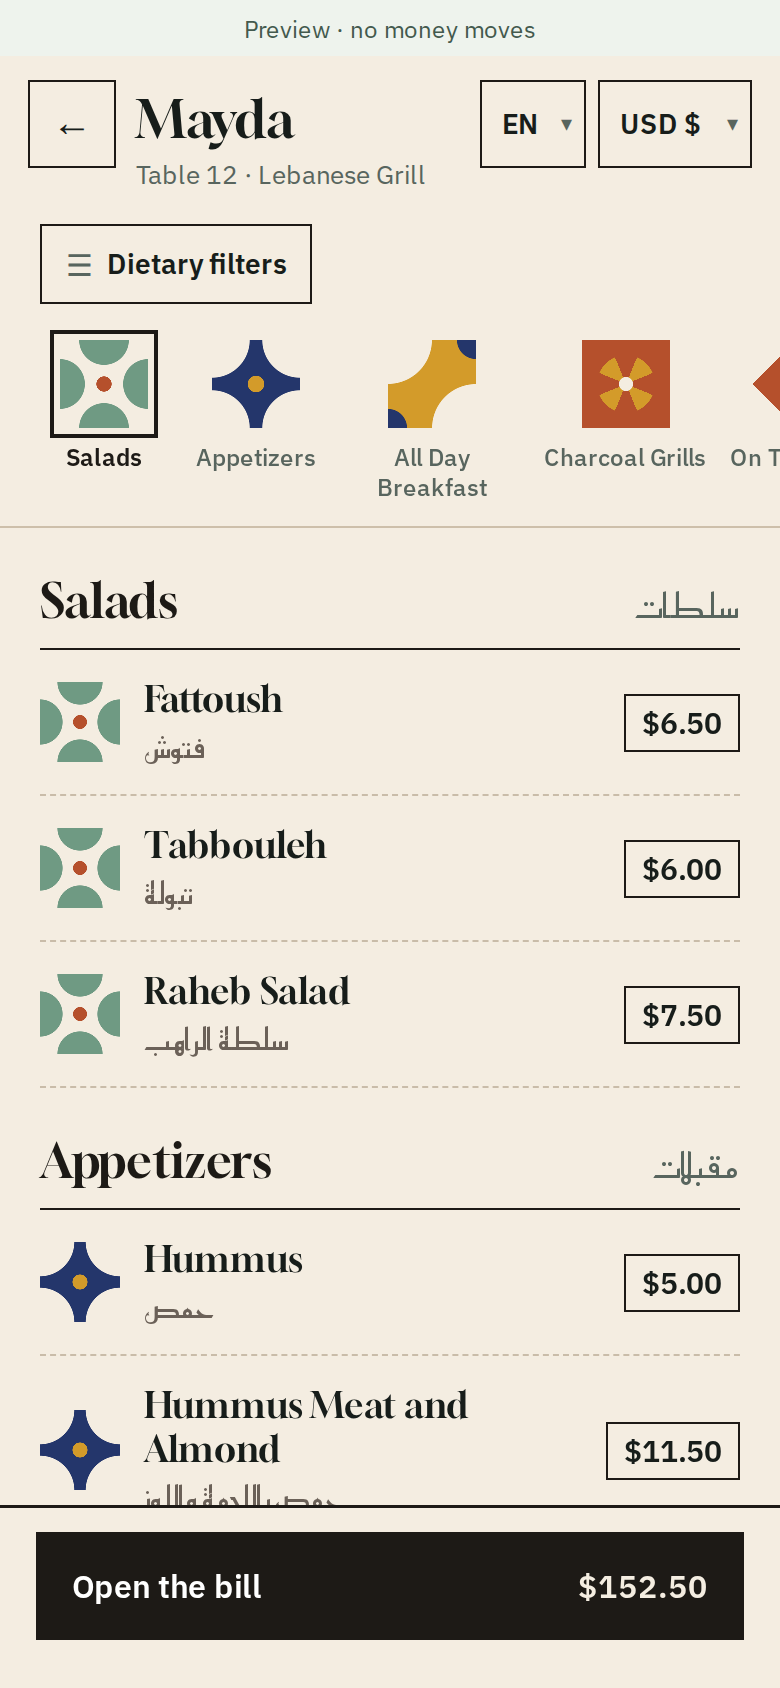
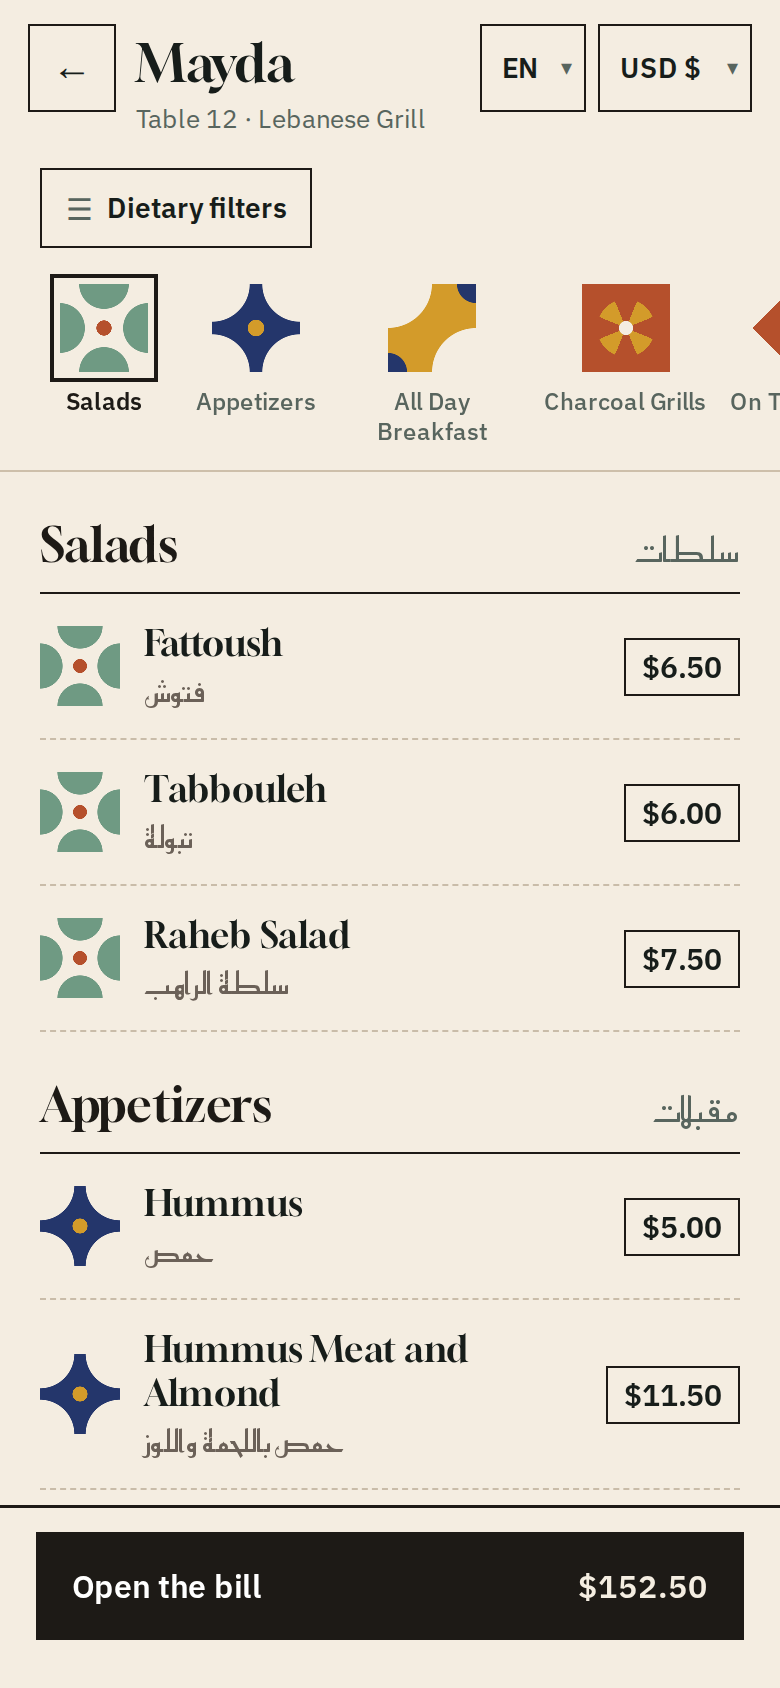
Guest menu: allergens only when there is something to say; no preview strip
- A dish's allergen line shows only for a warning (Contains ...) or when its
  ingredients are not confirmed; a dish with none says nothing. Both lines already
  tell the guest to ask their server, so the per-dish "Always confirm allergies with
  staff." goes; the dietary filters keep it. The unused "No common allergens"
  strings (EN, FR, AR) are removed.
- The "Preview · no money moves" strip at the top of every screen is gone, with the
  28 px it pushed every view down and its three translations.
- The website's guest screenshots and the share image are retaken without the strip.

Claude-Session: https://claude.ai/code/session_017mwzzhaL33iJSnVf4TVPSv

diff --git a/guest.html b/guest.html
@@ -538,8 +538,6 @@
   body{padding:0;background:#EEF1EC}
   .stage,.switcher,.note-out{display:none}
   .phone{width:480px;max-width:100%;height:100dvh;min-height:0;border:0;border-radius:0;box-shadow:0 0 60px #173D2510}
-  .screen::before{content:attr(data-preview);position:absolute;inset:0 0 auto;height:28px;display:flex;align-items:center;justify-content:center;background:#EEF3ED;color:#43594D;font-size:12px;z-index:60}
-  .view{top:28px}
   .scroll{min-height:0;overscroll-behavior:contain;scrollbar-width:thin}
   .back{width:44px;height:44px;font-size:20px;top:12px}
   .cta{font-size:16px;min-height:48px}
@@ -583,7 +581,7 @@
   .pm{min-height:72px}.pm .pn{font-size:16px}.pm .pd{font-size:13px;line-height:1.4;margin-top:3px}
   .chg-q,.cashnote,.chg-out{font-size:14px;line-height:1.5}.chip{min-height:44px;font-size:15px}
   .sheet .ss,.sim-note,.wh-s,.hint,.inc{font-size:14px}.inc{font-size:16px;min-height:44px}
-  .receipt-mode .screen::before{display:none}.receipt-mode .view{top:0}
+  .receipt-mode .view{top:0}
   .receipt-mode .mailin{border-color:#789C88;background:#204F3E;padding-inline:10px}
   .receipt-mode .mailin::placeholder{color:#CEE0D4;opacity:1}
   .receipt-mode .mailbtn{width:96px;padding:6px 10px;min-width:96px;font-size:14px;line-height:1.2;font-weight:600;border-color:#789C88}
@@ -593,7 +591,7 @@
   @media(max-width:380px){.m-head{padding-inline-end:20px;padding-top:66px}.sels{inset-inline-end:16px}.mi{gap:8px;padding-inline:16px}.menu-photo{width:48px;height:48px}.mi .item-end{gap:5px}.seg button{font-size:13px}}
   @container receipt (max-height:600px){.receipt-mode .consents{gap:6px}}
 
-  /* Offline banner: over the preview band at the top of the screen; the views move down
+  /* Offline banner: at the top of the screen; the views move down
      under it while it shows. The sync status chip hides meanwhile: one message, not two. */
   .net-banner{position:absolute;inset:0 0 auto;z-index:61;min-height:28px;padding:6px 16px;background:var(--amber-bg);color:#5C4611;border-bottom:1px solid var(--amber-line);font-size:12.5px;line-height:1.4;text-align:center}
   .net-banner[hidden]{display:none}
@@ -735,7 +733,7 @@
 <!-- the Aalayna wordmark (brand/svg/3layna/line.svg), drawn once and used in every "powered by" -->
 <svg width="0" height="0" style="position:absolute" aria-hidden="true" focusable="false"><symbol id="aal-logo" viewBox="0 0 350 50"><path fill="currentColor" d="M60 0L70 0L70 40.8L110 40.8L110 50L60 50ZM120 0L170 0L170 50L160 50L160 29.6L130 29.6L130 50L120 50ZM130 9.2L130 20.4L160 20.4L160 9.2ZM180 0L190 0L190 20.4L220 20.4L220 0L230 0L230 29.6L210 29.6L210 50L200 50L200 29.6L180 29.6ZM240 0L250 0L250 50L240 50ZM280 0L290 0L290 50L280 50ZM240 0L252.5 0L290 50L277.5 50ZM300 0L350 0L350 50L340 50L340 29.6L310 29.6L310 50L300 50ZM310 9.2L310 20.4L340 20.4L340 9.2Z"/><path style="fill:var(--logo-red,#C9414B)" d="M0 0L50 0L50 50L0 50L0 40.8L40 40.8L40 29.6L20 29.6L20 20.4L40 20.4L40 9.2L0 9.2Z"/></symbol></svg>
 <!-- #app is the guest app: its dir follows the language (rtl in Arabic), so every view and sheet mirrors -->
-<div class="phone" id="app" dir="ltr"><div class="screen" id="screen" data-preview="Preview · no money moves">
+<div class="phone" id="app" dir="ltr"><div class="screen" id="screen">
   <div class="net-banner" id="net-banner" role="status" aria-live="polite" hidden></div>
   <!-- ================= 1. LANDING ================= -->
   <div class="view on" id="v-land">
@@ -975,7 +973,6 @@
       <div class="i-meta" id="i-meta"></div>
       <div class="soldout" id="i-out" style="display:none">Sold out</div>
       <div class="alrt" id="i-alrt"></div>
-      <div class="disc" id="i-disc">Always confirm allergies with staff.</div>
       <div class="adds" id="i-adds"></div>
       <div class="i-price"><span class="ipl" data-i18n="priceAsSel">Price as selected</span>
         <span class="ipv" id="i-tot">$0.00</span></div>
@@ -1284,7 +1281,7 @@ var LANGS = ['en', 'fr', 'ar'];
 /* i18n:start */
 var STR = {
   en: {
-    preview: 'Preview · no money moves', poweredBy: 'powered by', back: 'Back', langLabel: 'Language', ccyLabel: 'Currency',
+    poweredBy: 'powered by', back: 'Back', langLabel: 'Language', ccyLabel: 'Currency',
     ccyUsd: 'USD $', ccyLbp: 'LBP LL', table: 'Table', sampleBill: 'sample bill',
     greet: 'Ahla w sahla', landNote: 'Explore the menu. When you’re ready, split the bill your way and pay from your table.',
     seeMenu: 'See the menu', openBill: 'Open the bill', crestFallback: 'YOUR MENU, LIVE',
@@ -1299,7 +1296,6 @@ var STR = {
     catBrk: 'Breakfast', catMez: 'Mezze & Grill', catSwt: 'Sweets', catDrk: 'Drinks',
     priceAsSel: 'Price as selected', close: 'Close', free: 'free',
     containsHtml: '<b>Contains {list}.</b> If you have a serious allergy, tell your server too.',
-    noAllergensHtml: '<b>No common allergens</b> as selected. If you have a serious allergy, tell your server too.',
     listSep: ', ',
     al_gluten: 'gluten', al_sesame: 'sesame', al_nuts: 'nuts', al_dairy: 'dairy', al_egg: 'egg', al_eggs: 'eggs',
     al_fish: 'fish', al_soy: 'soy', al_shellfish: 'shellfish', al_peanuts: 'peanuts', al_mustard: 'mustard', al_celery: 'celery',
@@ -1371,7 +1367,7 @@ var STR = {
     offline: 'No connection. Your bill is as of {time}; we will send your payment when you are back online.'
   },
   fr: {
-    preview: 'Aperçu · aucun argent ne circule', poweredBy: 'propulsé par', back: 'Retour', langLabel: 'Langue', ccyLabel: 'Devise',
+    poweredBy: 'propulsé par', back: 'Retour', langLabel: 'Langue', ccyLabel: 'Devise',
     ccyUsd: 'USD $', ccyLbp: 'LBP LL', table: 'Table', sampleBill: 'addition d’exemple',
     greet: 'Bienvenue', landNote: 'Découvrez le menu. Quand vous êtes prêts, partagez l’addition comme vous voulez et payez depuis votre table.',
     seeMenu: 'Voir le menu', openBill: 'Voir l’addition', crestFallback: 'VOTRE MENU, EN DIRECT',
@@ -1386,7 +1382,6 @@ var STR = {
     catBrk: 'Petit-déjeuner', catMez: 'Mezzés et grillades', catSwt: 'Douceurs', catDrk: 'Boissons',
     priceAsSel: 'Prix selon la sélection', close: 'Fermer', free: 'offert',
     containsHtml: '<b>Contient : {list}.</b> En cas d’allergie grave, prévenez aussi votre serveur.',
-    noAllergensHtml: '<b>Aucun allergène courant</b> dans cette sélection. En cas d’allergie grave, prévenez aussi votre serveur.',
     listSep: ', ',
     al_gluten: 'gluten', al_sesame: 'sésame', al_nuts: 'fruits à coque', al_dairy: 'produits laitiers', al_egg: 'œuf', al_eggs: 'œufs',
     al_fish: 'poisson', al_soy: 'soja', al_shellfish: 'crustacés', al_peanuts: 'arachides', al_mustard: 'moutarde', al_celery: 'céleri',
@@ -1458,7 +1453,7 @@ var STR = {
     offline: 'Pas de connexion. Votre addition date de {time} ; nous enverrons votre paiement dès votre retour en ligne.'
   },
   ar: {
-    preview: 'معاينة · لا تُحوَّل أي أموال', poweredBy: 'مدعوم من', back: 'رجوع', langLabel: 'اللغة', ccyLabel: 'العملة',
+    poweredBy: 'مدعوم من', back: 'رجوع', langLabel: 'اللغة', ccyLabel: 'العملة',
     ccyUsd: 'دولار $', ccyLbp: 'ليرة ل.ل.', table: 'طاولة', sampleBill: 'فاتورة تجريبية',
     greet: 'أهلاً وسهلاً', landNote: 'تصفّح القائمة. وعندما تكون جاهزاً، قسّم الفاتورة على طريقتك وادفع من طاولتك.',
     seeMenu: 'عرض القائمة', openBill: 'افتح الفاتورة', crestFallback: 'قائمتك، مباشرة',
@@ -1473,7 +1468,6 @@ var STR = {
     catBrk: 'ترويقة', catMez: 'مازة ومشاوي', catSwt: 'حلويات', catDrk: 'مشروبات',
     priceAsSel: 'السعر حسب الاختيار', close: 'إغلاق', free: 'مجاناً',
     containsHtml: '<b>يحتوي على: {list}.</b> إذا كانت لديك حساسية شديدة، أخبر النادل أيضاً.',
-    noAllergensHtml: '<b>لا مسبّبات حساسية شائعة</b> حسب الاختيار. إذا كانت لديك حساسية شديدة، أخبر النادل أيضاً.',
     listSep: '، ',
     al_gluten: 'الغلوتين', al_sesame: 'السمسم', al_nuts: 'المكسرات', al_dairy: 'الألبان', al_egg: 'البيض', al_eggs: 'البيض',
     al_fish: 'السمك', al_soy: 'الصويا', al_shellfish: 'القشريات', al_peanuts: 'الفول السوداني', al_mustard: 'الخردل', al_celery: 'الكرفس',
@@ -1629,7 +1623,6 @@ function applyLang(){
   var app = $('app');
   if (app){ app.setAttribute('dir', LANG === 'ar' ? 'rtl' : 'ltr'); app.setAttribute('lang', LANG); }
   if (document.documentElement) document.documentElement.lang = LANG;
-  var scr = $('screen'); if (scr) scr.setAttribute('data-preview', t('preview'));
   paintStatic();
   // the Arabic "thank you" under the title is a flourish; in Arabic the title already says it
   var tar = $('thanks-ar'); if (tar) tar.hidden = LANG === 'ar';
@@ -2190,27 +2183,24 @@ function closeInline(){
   inlineRow = null;
 }
 /* the allergen line is computed from what is actually selected; pick oat milk
-   and the dairy warning goes away, pick almond and a nuts warning appears */
+   and the dairy warning goes away, pick almond and a nuts warning appears. It shows only when there is something
+   to say: the allergens, or that the ingredients are not confirmed; both tell the guest to ask their server, so a
+   dish carries no separate disclaimer (the dietary filters keep theirs) and a dish with none says nothing. */
 function paintAlert(){
   var alrt = $('i-alrt');
-  $('i-disc').textContent = t('disc');
-  alrt.style.display = 'flex';
   if (!filterable(curItem)){
     // no confirmed ingredient record: no claim either way, just point at the staff
+    alrt.style.display = 'flex';
     alrt.innerHTML = '<span>&#8505;</span><span>' + esc(t('unkSheet')) + '</span>';
     alrt.style.background = balat() ? 'transparent' : 'var(--bg)'; alrt.style.borderColor = 'var(--line)'; alrt.style.color = 'var(--sub)';
     return;
   }
-  var al = effDiet(curItem, curSel).al, bg, bd, fg;
-  if (al.length){
-    alrt.innerHTML = '<span>&#9888;</span><span>' + t('containsHtml', {list: esc(al.map(allergenName).join(t('listSep')))}) + '</span>';
-    bg = '#FBEDEB'; bd = '#F3D9D5'; fg = '#8E3A33';
-  } else {
-    alrt.innerHTML = '<span>&#10003;</span><span>' + t('noAllergensHtml') + '</span>';
-    bg = '#EAF1EC'; bd = '#CFE0D5'; fg = '#2F5A48';
-  }
-  if (balat()){ bg = 'transparent'; bd = al.length ? 'var(--tile-t)' : 'var(--tile-s)'; }   // Balat: a pigment rule on the paper
-  alrt.style.background = bg; alrt.style.borderColor = bd; alrt.style.color = fg;
+  var al = effDiet(curItem, curSel).al;
+  if (!al.length){ alrt.style.display = 'none'; alrt.innerHTML = ''; return; }
+  alrt.style.display = 'flex';
+  alrt.innerHTML = '<span>&#9888;</span><span>' + t('containsHtml', {list: esc(al.map(allergenName).join(t('listSep')))}) + '</span>';
+  // Balat: a terracotta rule on the paper instead of a tinted box
+  alrt.style.background = balat() ? 'transparent' : '#FBEDEB'; alrt.style.borderColor = balat() ? 'var(--tile-t)' : '#F3D9D5'; alrt.style.color = '#8E3A33';
 }
 function calcItem(){
   paintAlert();
